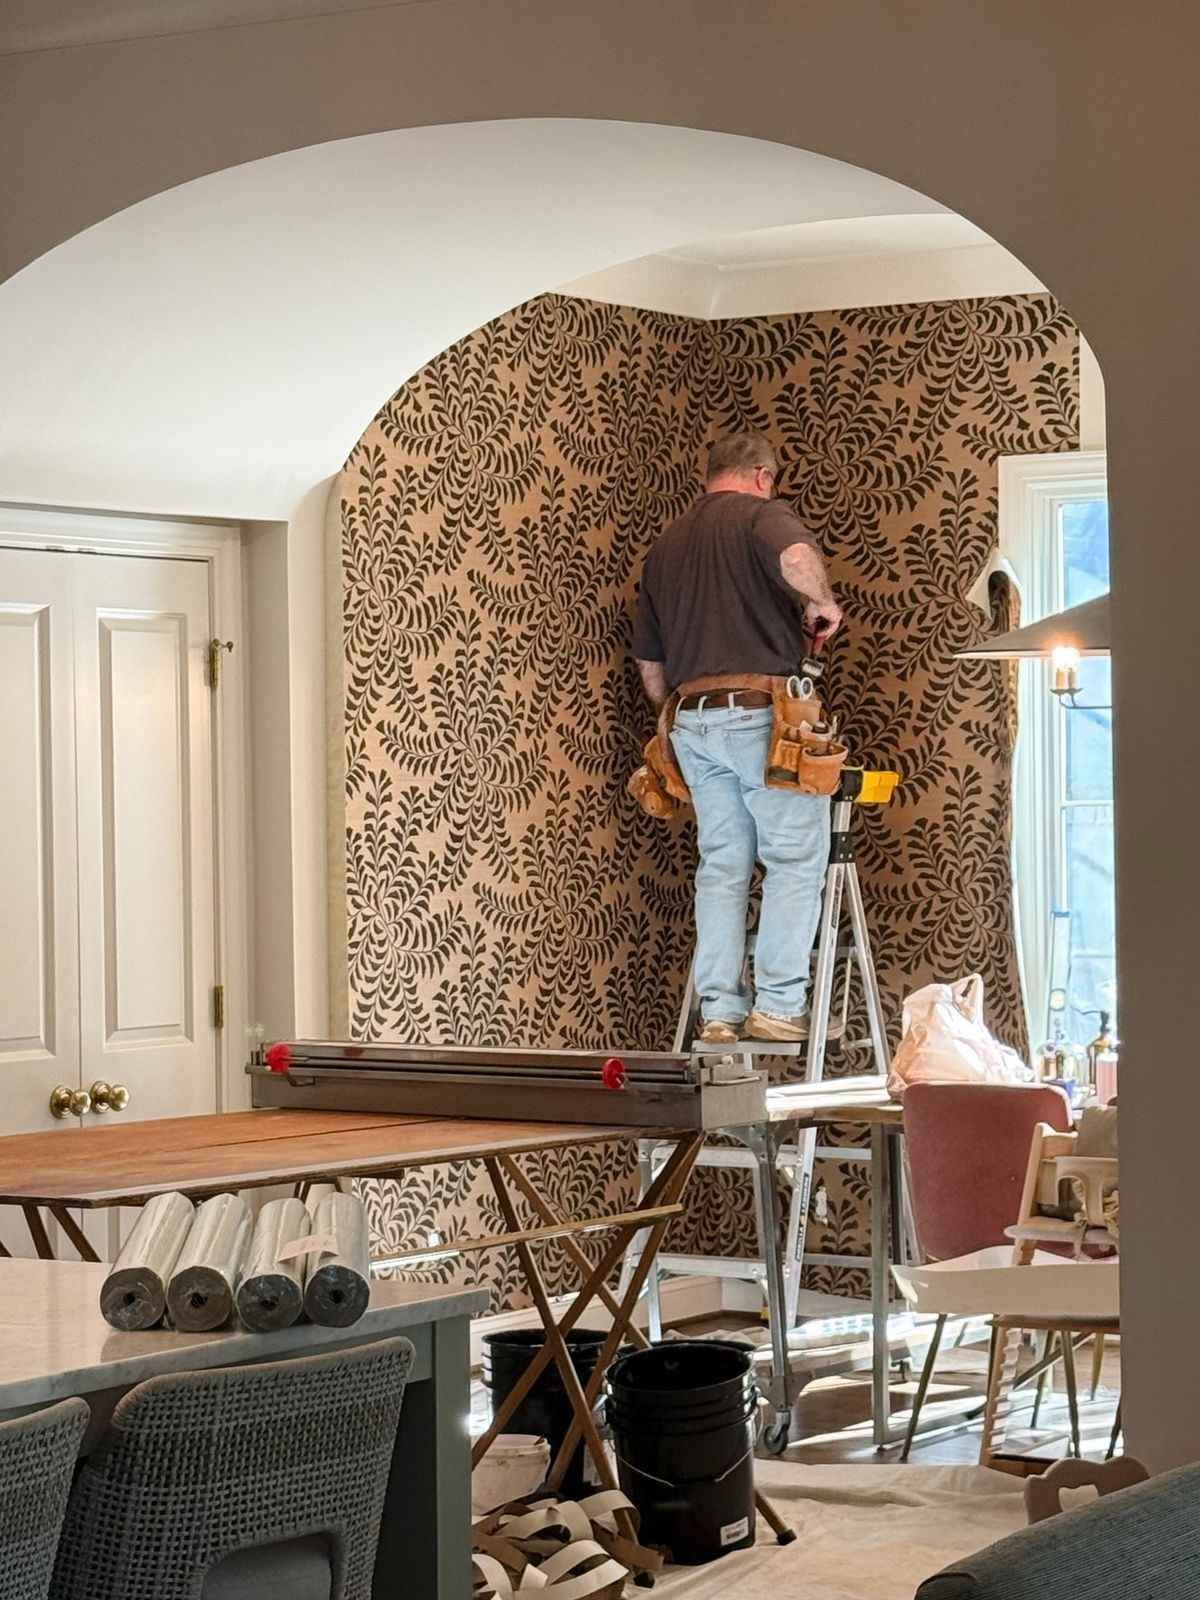
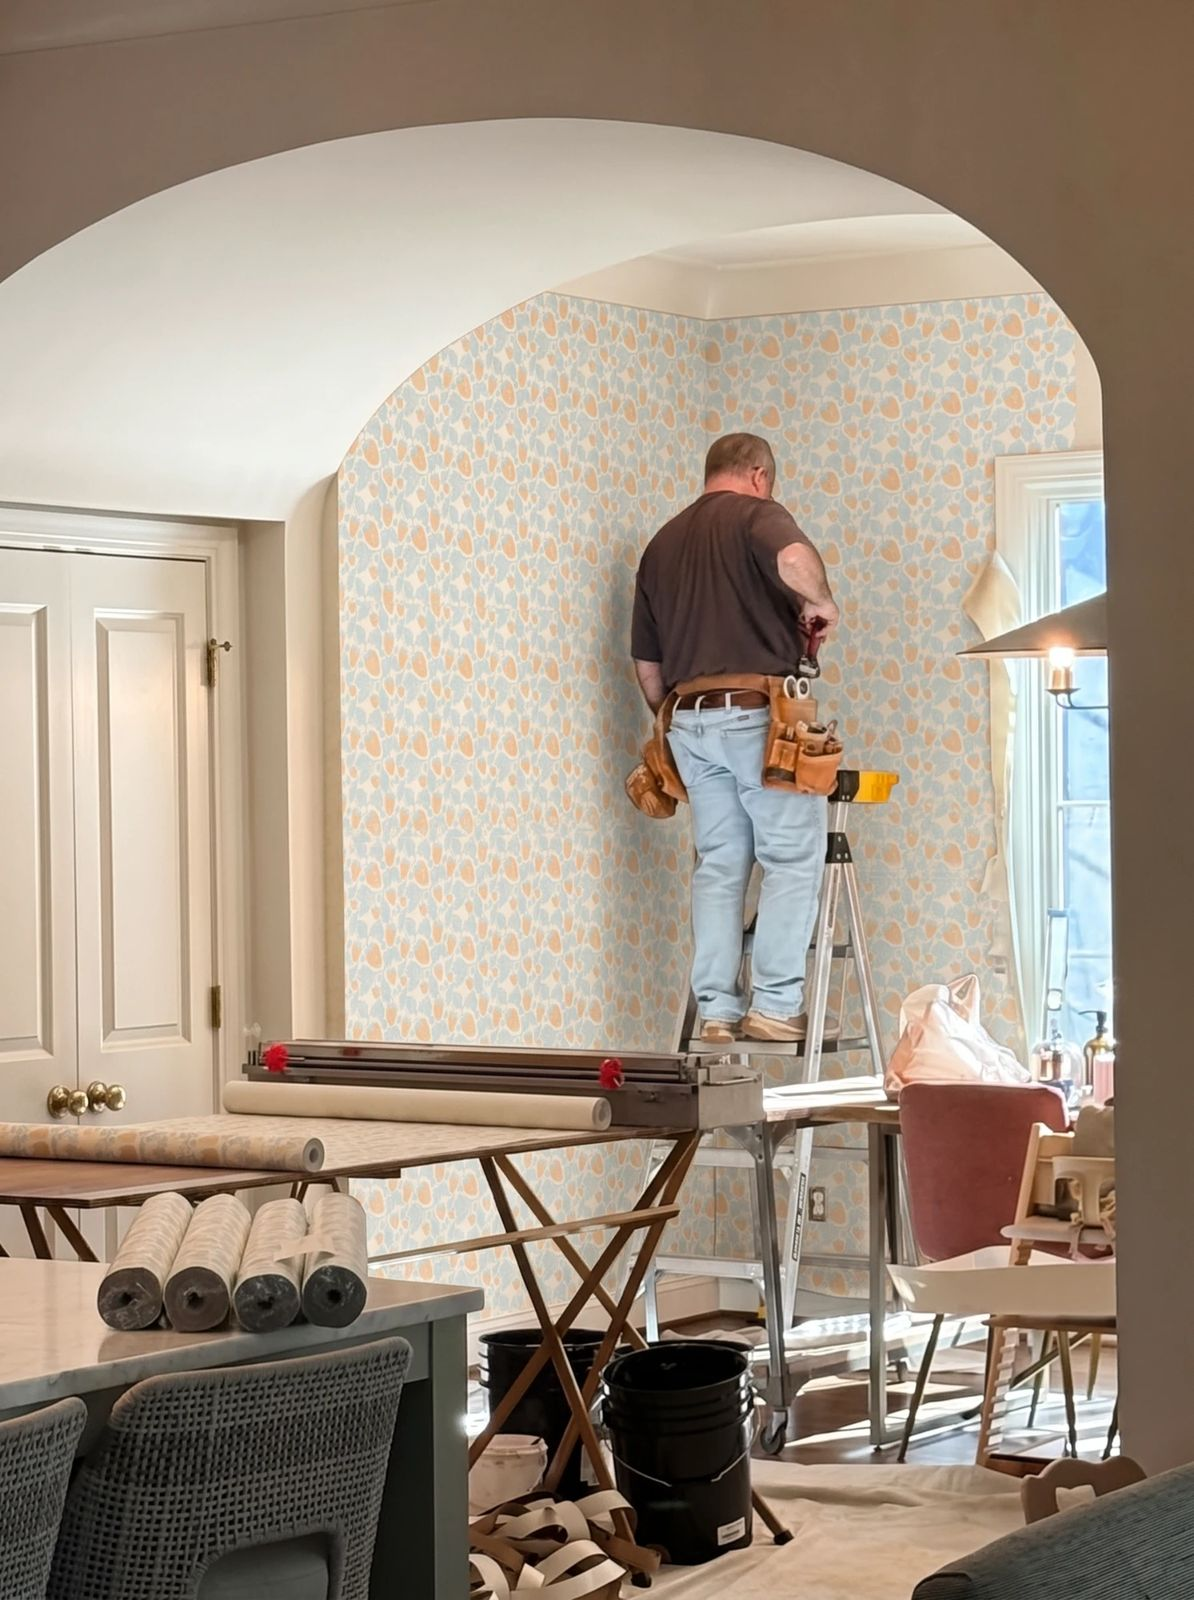
Swap installer photo for apricot strawberry, drop fern entry

diff --git a/docs/index.html b/docs/index.html
@@ -141,7 +141,7 @@ p{margin:0}
 .pair-head{display:grid;grid-template-columns:repeat(12,1fr);gap:24px;align-items:end;margin-bottom:28px}
 .pair-head .display{grid-column:1/7;font-size:clamp(36px,4.6vw,64px)}
 .pair-head .lead{grid-column:7/13;font-size:19px}
-.pair-grid{display:grid;grid-template-columns:1fr 1fr;gap:24px}
+.pair-grid{display:grid;grid-template-columns:repeat(3,1fr);gap:24px}
 .pair-grid figure{margin:0}
 .pair-grid img{width:100%;aspect-ratio:4/5;object-fit:cover;object-position:50% 40%}
 .pair-grid figcaption{display:flex;justify-content:space-between;gap:16px;margin-top:14px;font-family:var(--ital);font-style:italic;font-size:15px;color:var(--ink-soft)}
@@ -287,8 +287,8 @@ p{margin:0}
 
   <div class="ticker" aria-hidden="true">
     <div class="track">
-      <span>Ladbroke Fern <i>ink on grasscloth</i></span><span>Portobello Strawberry <i>ink on chalk</i></span><span>Westbourne Ginkgo <i>Delft on chalk</i></span><span>Painted to order <i>any colourway</i></span>
-      <span>Ladbroke Fern <i>ink on grasscloth</i></span><span>Portobello Strawberry <i>ink on chalk</i></span><span>Westbourne Ginkgo <i>Delft on chalk</i></span><span>Painted to order <i>any colourway</i></span>
+      <span>Portobello Strawberry <i>ink on chalk</i></span><span>Westbourne Ginkgo <i>Delft on chalk</i></span><span>Painted to order <i>any colourway</i></span>
+      <span>Portobello Strawberry <i>ink on chalk</i></span><span>Westbourne Ginkgo <i>Delft on chalk</i></span><span>Painted to order <i>any colourway</i></span>
     </div>
   </div>
 
@@ -296,35 +296,12 @@ p{margin:0}
     <div class="wrap">
       <div class="section-head rv">
         <p class="eyebrow">The papers</p>
-        <h2 class="display">Three patterns, painted to order.</h2>
+        <h2 class="display">Two patterns, painted to order.</h2>
         <p class="lead">Each design is drawn once, then painted freehand onto every length. Choose a pattern, a ground and an ink. Or bring us a room and we will draw something for it.</p>
       </div>
 
-      <article class="paper rv">
-        <div class="paper-head" style="--sw:#2A2922">
-          <h3 class="display">Ladbroke Fern</h3>
-          <p class="colourway">Ink on natural grasscloth</p>
-          <p>Whorls of fern painted in casein ink straight onto woven sisal, so the weave shows through every leaf. Named for Ladbroke Square gardens in April, when the fronds unfurl.</p>
-        </div>
-        <div class="paper-drop">
-          <div class="drop still">
-            <img class="swatch" src="img/atelier.jpg" alt="Ladbroke Fern being hung in an arched dining room" loading="lazy">
-          </div>
-        </div>
-        <div class="paper-spec">
-          <p class="spec-title">Specification</p>
-          <dl class="spec">
-            <dt>Width</dt><dd>91 cm</dd>
-            <dt>Vertical repeat</dt><dd>64 cm</dd>
-            <dt>Length</dt><dd>Painted to your drop, up to 3.2 m</dd>
-            <dt>Ground</dt><dd>Sisal grasscloth, paper-backed</dd>
-            <dt>Medium</dt><dd>Casein distemper</dd>
-            <dt>Match</dt><dd>Half drop</dd>
-          </dl>
-        </div>
-      </article>
 
-      <article class="paper alt rv">
+      <article class="paper rv">
         <div class="paper-drop">
           <div class="drop multi" data-drop id="strawberry-drop">
             <img class="swatch active" data-cw="ink" src="img/swatch-strawberry-ink.jpg" alt="The Portobello Strawberry repeat in ink on chalk" loading="lazy">
@@ -388,8 +365,8 @@ p{margin:0}
   <section class="section atelier" id="atelier">
     <div class="wrap">
       <figure class="atelier-media rv" style="margin:0">
-        <img src="img/atelier.jpg" alt="A paperhanger on a step ladder fitting a length of Ladbroke Fern in an arched dining room, paste table and rolls in the foreground" loading="lazy">
-        <figcaption>Ladbroke Fern going up in a dining room off Kensington Park Road. The paste table has been in the family longer than the pattern.</figcaption>
+        <img src="img/atelier.jpg" alt="A paperhanger on a step ladder fitting a length of Portobello Strawberry in apricot and duck egg in an arched dining room, paste table and rolls in the foreground" loading="lazy">
+        <figcaption>Portobello Strawberry, apricot and duck egg, going up in a dining room off Kensington Park Road. The paste table has been in the family longer than the pattern.</figcaption>
       </figure>
       <div class="atelier-text">
         <div class="rv">
@@ -423,7 +400,6 @@ p{margin:0}
       <div class="controls rv">
         <fieldset class="ctl"><legend>Pattern</legend>
           <div class="pills" id="motifs">
-            <button class="pill" type="button" data-motif="fern">Fern</button>
             <button class="pill" type="button" data-motif="strawberry">Strawberry</button>
             <button class="pill" type="button" data-motif="ginkgo" aria-pressed="true">Ginkgo</button>
           </div>
@@ -485,8 +461,8 @@ p{margin:0}
       </div>
       <div class="pair rv">
         <div class="pair-head">
-          <h3 class="display">One drawing, two houses.</h3>
-          <p class="lead">The same strawberry cartoon, painted in ochre for a west-facing bedroom and in ink for a room with an oak bed that wanted something to argue with.</p>
+          <h3 class="display">One drawing, three houses.</h3>
+          <p class="lead">The same strawberry cartoon, painted in ochre for a west-facing bedroom, in ink for a room with an oak bed that wanted something to argue with, and in apricot and duck egg for a dining room under an arch.</p>
         </div>
         <div class="pair-grid">
           <figure>
@@ -496,6 +472,10 @@ p{margin:0}
           <figure>
             <img src="img/room-strawberry-ink.jpg" alt="Portobello Strawberry in ink on chalk behind a carved oak bed with a copper anglepoise lamp" loading="lazy">
             <figcaption><span>Ink on chalk. The leaves were painted last, wet into the fruit, so the edges bleed like a woodcut.</span><small>Private house, W11</small></figcaption>
+          </figure>
+          <figure>
+            <img src="img/atelier.jpg" alt="Portobello Strawberry in apricot and duck egg being hung in an arched dining room" loading="lazy">
+            <figcaption><span>Apricot and duck egg on chalk. Hung on a Tuesday, photographed before the furniture went back.</span><small>Private house, W11</small></figcaption>
           </figure>
         </div>
       </div>

diff --git a/index.html b/index.html
@@ -135,7 +135,7 @@ p{margin:0}
 .pair-head{display:grid;grid-template-columns:repeat(12,1fr);gap:24px;align-items:end;margin-bottom:28px}
 .pair-head .display{grid-column:1/7;font-size:clamp(36px,4.6vw,64px)}
 .pair-head .lead{grid-column:7/13;font-size:19px}
-.pair-grid{display:grid;grid-template-columns:1fr 1fr;gap:24px}
+.pair-grid{display:grid;grid-template-columns:repeat(3,1fr);gap:24px}
 .pair-grid figure{margin:0}
 .pair-grid img{width:100%;aspect-ratio:4/5;object-fit:cover;object-position:50% 40%}
 .pair-grid figcaption{display:flex;justify-content:space-between;gap:16px;margin-top:14px;font-family:var(--ital);font-style:italic;font-size:15px;color:var(--ink-soft)}
@@ -278,8 +278,8 @@ p{margin:0}
 
   <div class="ticker" aria-hidden="true">
     <div class="track">
-      <span>Ladbroke Fern <i>ink on grasscloth</i></span><span>Portobello Strawberry <i>ink on chalk</i></span><span>Westbourne Ginkgo <i>Delft on chalk</i></span><span>Painted to order <i>any colourway</i></span>
-      <span>Ladbroke Fern <i>ink on grasscloth</i></span><span>Portobello Strawberry <i>ink on chalk</i></span><span>Westbourne Ginkgo <i>Delft on chalk</i></span><span>Painted to order <i>any colourway</i></span>
+      <span>Portobello Strawberry <i>ink on chalk</i></span><span>Westbourne Ginkgo <i>Delft on chalk</i></span><span>Painted to order <i>any colourway</i></span>
+      <span>Portobello Strawberry <i>ink on chalk</i></span><span>Westbourne Ginkgo <i>Delft on chalk</i></span><span>Painted to order <i>any colourway</i></span>
     </div>
   </div>
 
@@ -287,35 +287,12 @@ p{margin:0}
     <div class="wrap">
       <div class="section-head rv">
         <p class="eyebrow">The papers</p>
-        <h2 class="display">Three patterns, painted to order.</h2>
+        <h2 class="display">Two patterns, painted to order.</h2>
         <p class="lead">Each design is drawn once, then painted freehand onto every length. Choose a pattern, a ground and an ink. Or bring us a room and we will draw something for it.</p>
       </div>
 
-      <article class="paper rv">
-        <div class="paper-head" style="--sw:#2A2922">
-          <h3 class="display">Ladbroke Fern</h3>
-          <p class="colourway">Ink on natural grasscloth</p>
-          <p>Whorls of fern painted in casein ink straight onto woven sisal, so the weave shows through every leaf. Named for Ladbroke Square gardens in April, when the fronds unfurl.</p>
-        </div>
-        <div class="paper-drop">
-          <div class="drop still">
-            <img class="swatch" src="img/atelier.jpg" alt="Ladbroke Fern being hung in an arched dining room" loading="lazy">
-          </div>
-        </div>
-        <div class="paper-spec">
-          <p class="spec-title">Specification</p>
-          <dl class="spec">
-            <dt>Width</dt><dd>91 cm</dd>
-            <dt>Vertical repeat</dt><dd>64 cm</dd>
-            <dt>Length</dt><dd>Painted to your drop, up to 3.2 m</dd>
-            <dt>Ground</dt><dd>Sisal grasscloth, paper-backed</dd>
-            <dt>Medium</dt><dd>Casein distemper</dd>
-            <dt>Match</dt><dd>Half drop</dd>
-          </dl>
-        </div>
-      </article>
 
-      <article class="paper alt rv">
+      <article class="paper rv">
         <div class="paper-drop">
           <div class="drop multi" data-drop id="strawberry-drop">
             <img class="swatch active" data-cw="ink" src="img/swatch-strawberry-ink.jpg" alt="The Portobello Strawberry repeat in ink on chalk" loading="lazy">
@@ -379,8 +356,8 @@ p{margin:0}
   <section class="section atelier" id="atelier">
     <div class="wrap">
       <figure class="atelier-media rv" style="margin:0">
-        <img src="img/atelier.jpg" alt="A paperhanger on a step ladder fitting a length of Ladbroke Fern in an arched dining room, paste table and rolls in the foreground" loading="lazy">
-        <figcaption>Ladbroke Fern going up in a dining room off Kensington Park Road. The paste table has been in the family longer than the pattern.</figcaption>
+        <img src="img/atelier.jpg" alt="A paperhanger on a step ladder fitting a length of Portobello Strawberry in apricot and duck egg in an arched dining room, paste table and rolls in the foreground" loading="lazy">
+        <figcaption>Portobello Strawberry, apricot and duck egg, going up in a dining room off Kensington Park Road. The paste table has been in the family longer than the pattern.</figcaption>
       </figure>
       <div class="atelier-text">
         <div class="rv">
@@ -414,7 +391,6 @@ p{margin:0}
       <div class="controls rv">
         <fieldset class="ctl"><legend>Pattern</legend>
           <div class="pills" id="motifs">
-            <button class="pill" type="button" data-motif="fern">Fern</button>
             <button class="pill" type="button" data-motif="strawberry">Strawberry</button>
             <button class="pill" type="button" data-motif="ginkgo" aria-pressed="true">Ginkgo</button>
           </div>
@@ -476,8 +452,8 @@ p{margin:0}
       </div>
       <div class="pair rv">
         <div class="pair-head">
-          <h3 class="display">One drawing, two houses.</h3>
-          <p class="lead">The same strawberry cartoon, painted in ochre for a west-facing bedroom and in ink for a room with an oak bed that wanted something to argue with.</p>
+          <h3 class="display">One drawing, three houses.</h3>
+          <p class="lead">The same strawberry cartoon, painted in ochre for a west-facing bedroom, in ink for a room with an oak bed that wanted something to argue with, and in apricot and duck egg for a dining room under an arch.</p>
         </div>
         <div class="pair-grid">
           <figure>
@@ -487,6 +463,10 @@ p{margin:0}
           <figure>
             <img src="img/room-strawberry-ink.jpg" alt="Portobello Strawberry in ink on chalk behind a carved oak bed with a copper anglepoise lamp" loading="lazy">
             <figcaption><span>Ink on chalk. The leaves were painted last, wet into the fruit, so the edges bleed like a woodcut.</span><small>Private house, W11</small></figcaption>
+          </figure>
+          <figure>
+            <img src="img/atelier.jpg" alt="Portobello Strawberry in apricot and duck egg being hung in an arched dining room" loading="lazy">
+            <figcaption><span>Apricot and duck egg on chalk. Hung on a Tuesday, photographed before the furniture went back.</span><small>Private house, W11</small></figcaption>
           </figure>
         </div>
       </div>
